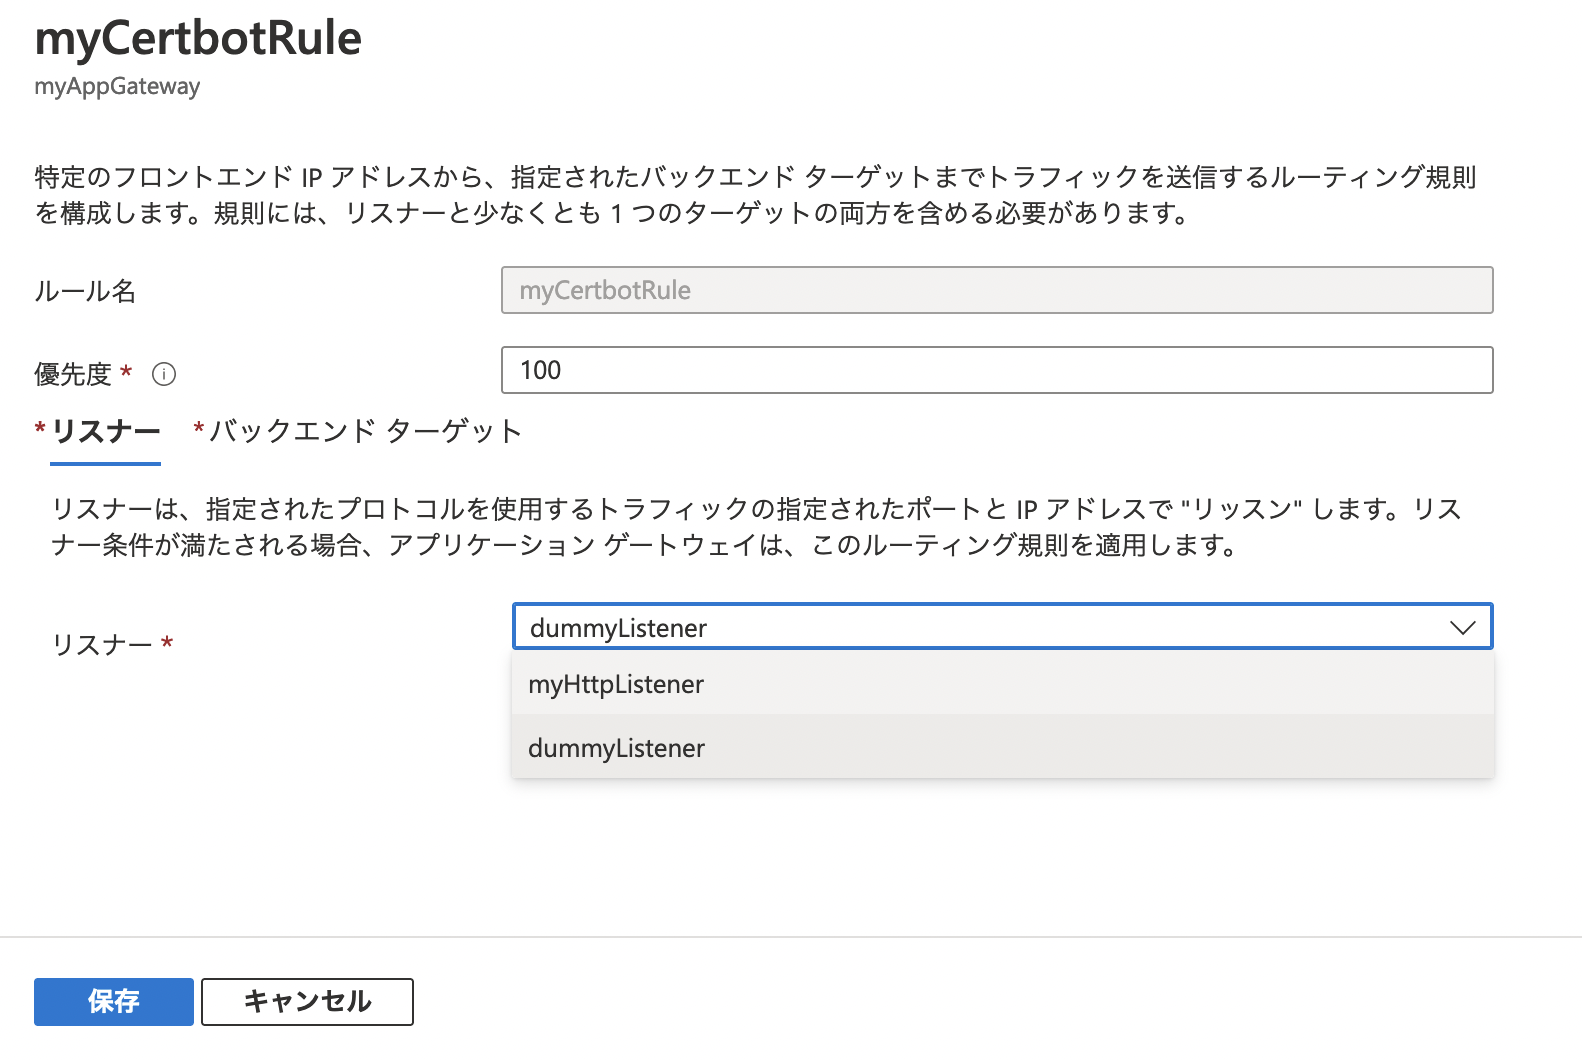
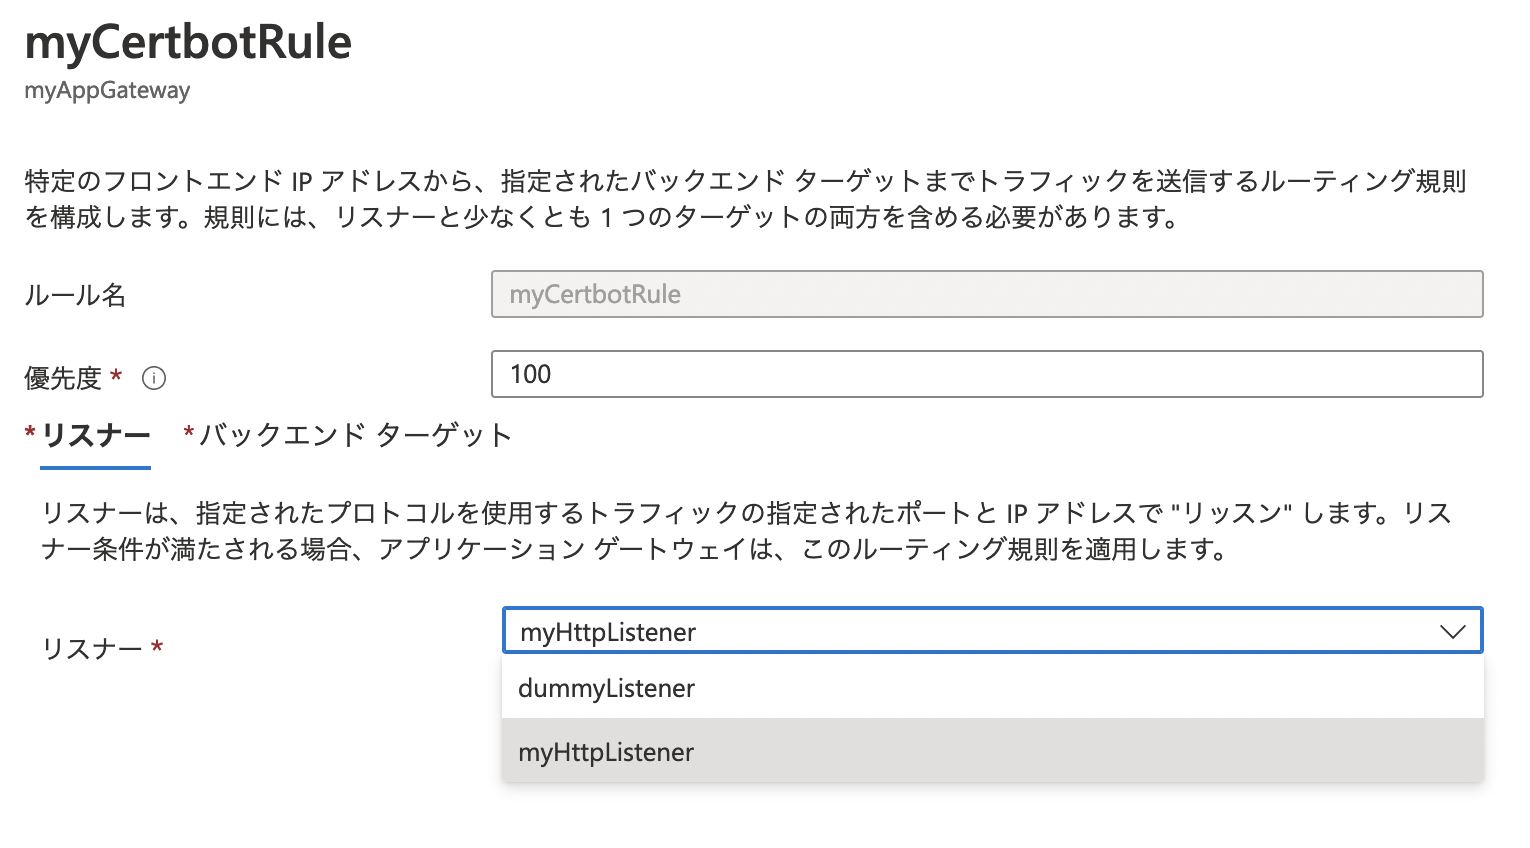
edit rule

diff --git a/articles/azure-bootcamp-3-2-dsn-lets-encrypt.md b/articles/azure-bootcamp-3-2-dsn-lets-encrypt.md
@@ -322,7 +322,6 @@ Azure Portal上で、作成済みのApplication Gatewayを表示します。
       - パスベースの規則の表示に戻る
     - [追加]ボタンをクリック
   - 「ルーティング規則」の一覧に戻る
-    - ※この段階で、 http://_指定したDNS名_.japaneast.cloudapp.azure.com:8080/ にアクセスできるはず
 
 ![パス指定](/images/azure_appgateway_add_rule_panel3_addpath.png =400x)
 
@@ -345,14 +344,17 @@ Azure Portal上でApplication Gatewayの設定を続けます。
 
 ### 新しいルーティング規則を変更
 
-    - ルールの一覧から、今回作った「certbotRule」をクリック
-    - ルール内容のパネルが表示される
-      - リスナーで「myHttpRule」を選択
-      - [保存]ボタンをクリック
+もう少しAzure Portal上でApplication Gatewayの設定を続けます。
+
+- 左のメニューから「ルール」をクリック
+  - ルールの一覧から、今回作った「certbotRule」をクリック
+  - ルール内容のパネルが表示される
+    - リスナーで「myHttpListner」を選択
+    - [保存]ボタンをクリック
 
 ![ルール編集パネル](/images/azure_appgateway_rule_edit_panel.png　=400x)
 
-これで一旦ルール設定は終了です。
+これで一旦ルーティング規則の設定は終了です。
 
 ## certbotの実行
 
